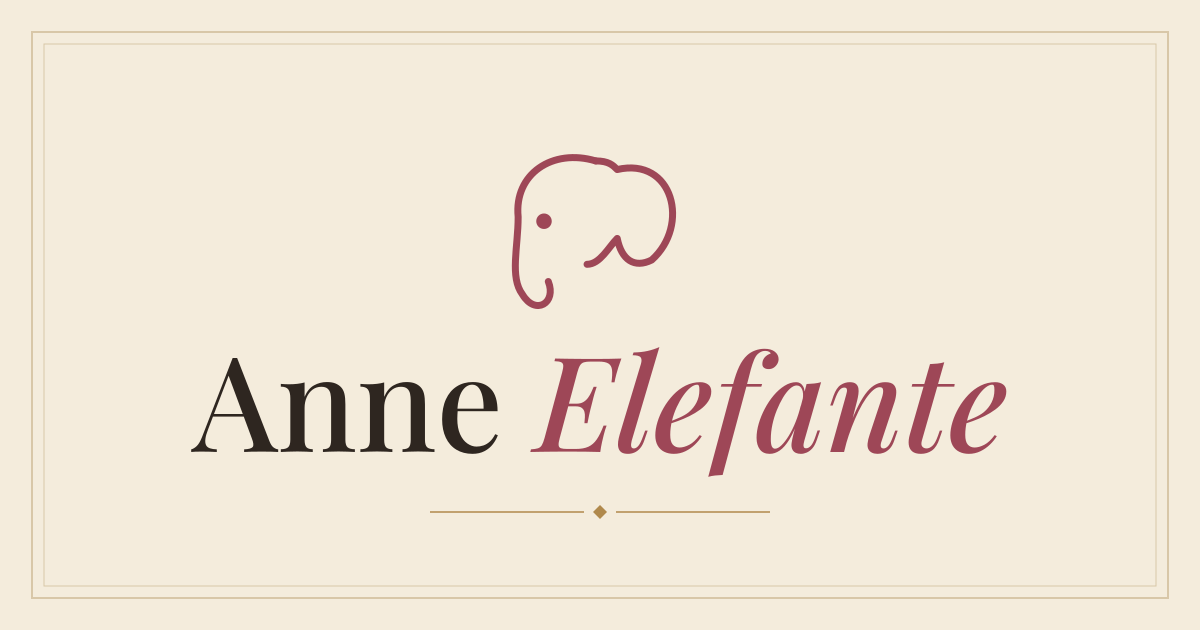
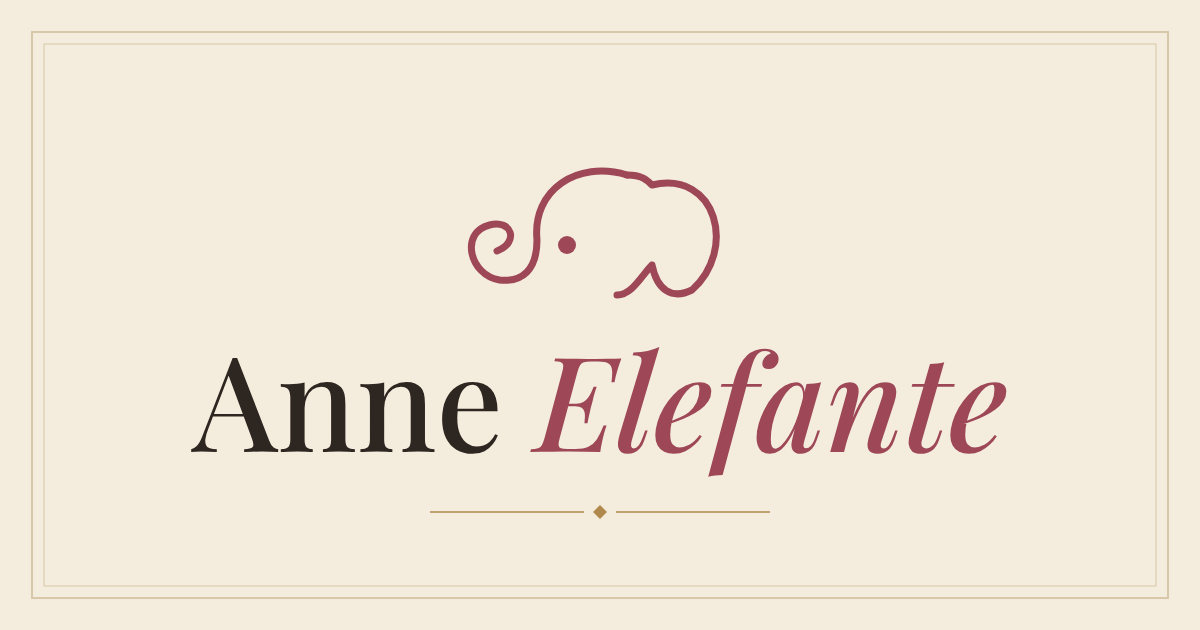
Swap the elephant mark for the trunk-up "Curl" redraw
Ellene polled people on six trunk-up redraws of the masthead elephant
and Curl won: same ear, eye, and fine-line weight as the tattoo-based
original, but the trunk now lifts into a spiral at eye level. Swapped
in everywhere the mark lives — PageTitle, the home nav brand, the
favicon, and the OG card. The new drawing is wider and shorter, so the
icon/OG transforms recenter on its optical center (30.6 25.4) instead
of the old (37 30.5); both PNGs are re-rendered from their SVGs.

Two deliberate look changes riding along: the favicon is reversed
(cream elephant knocked out of a rose chip) so it stands out in a tab
strip, and the home nav mark goes 22px -> 36px to match the size the
Help Center and Cold Storage masts render it.

Changed region(s): [[0.37, 0.2413, 0.6167, 0.5127]]

diff --git a/quartz/components/PageTitle.tsx b/quartz/components/PageTitle.tsx
@@ -9,9 +9,10 @@ const PageTitle: QuartzComponent = ({ fileData, cfg, displayClass }: QuartzCompo
   return (
     <h2 class={classNames(displayClass, "page-title")}>
       <a href={baseDir}>
-        {/* Anne Elefante mark — hand-drawn fine-line elephant head (trunk down,
-            soft ear, eye dot), based on Ellene's tattoo. currentColor-driven so
-            it recolors per section: sage on cream, gold on near-black in the
+        {/* Anne Elefante mark — hand-drawn fine-line elephant head (trunk curled
+            up in a spiral at eye level, soft ear, eye dot), based on Ellene's
+            tattoo; "Curl" redraw picked July 2026. currentColor-driven so it
+            recolors per section: sage on cream, gold on near-black in the
             Cold Storage vault. stroke-width bumped to 2.6 for inline/small size. */}
         <svg
           class="page-title-leaf"
@@ -28,7 +29,7 @@ const PageTitle: QuartzComponent = ({ fileData, cfg, displayClass }: QuartzCompo
             stroke-linecap="round"
             stroke-linejoin="round"
           >
-            <path d="M36 14 C 26 11 17 17 18 27 C 18 34 16 41 19 45 C 22 50 27 47 25 42" />
+            <path d="M36 14 C 26 11 17 17 18 27 C 18 33 15 35.5 10.5 35 C 4.5 34 2.5 25.5 8.5 24 C 13 22.8 14.5 27.5 10 29.2" />
             <path d="M36 14 C 39 14 40 15 41 16 C 54 13 58 29 49 37 C 45 39 42 37 41 32 C 39 34 37 38 34 38" />
           </g>
           <circle cx="24" cy="28" r="1.5" fill="currentColor" />

diff --git a/content/index.md b/content/index.md
@@ -4,7 +4,7 @@ description: I build the things people reach for when they're stuck.
 ---
 
 <nav class="hp-nav">
-<a class="hp-brand" href="/"><svg class="hp-brand-elephant" width="22" height="22" viewBox="0 0 64 64" fill="none" aria-hidden="true"><g fill="none" stroke="var(--gp-sage-deep)" stroke-width="2.6" stroke-linecap="round" stroke-linejoin="round"><path d="M36 14 C 26 11 17 17 18 27 C 18 34 16 41 19 45 C 22 50 27 47 25 42"/><path d="M36 14 C 39 14 40 15 41 16 C 54 13 58 29 49 37 C 45 39 42 37 41 32 C 39 34 37 38 34 38"/></g><circle cx="24" cy="28" r="1.5" fill="var(--gp-sage-deep)"/></svg><span class="hp-brand-word">Anne Elefante</span></a>
+<a class="hp-brand" href="/"><svg class="hp-brand-elephant" width="36" height="36" viewBox="0 0 64 64" fill="none" aria-hidden="true"><g fill="none" stroke="var(--gp-sage-deep)" stroke-width="2.6" stroke-linecap="round" stroke-linejoin="round"><path d="M36 14 C 26 11 17 17 18 27 C 18 33 15 35.5 10.5 35 C 4.5 34 2.5 25.5 8.5 24 C 13 22.8 14.5 27.5 10 29.2"/><path d="M36 14 C 39 14 40 15 41 16 C 54 13 58 29 49 37 C 45 39 42 37 41 32 C 39 34 37 38 34 38"/></g><circle cx="24" cy="28" r="1.5" fill="var(--gp-sage-deep)"/></svg><span class="hp-brand-word">Anne Elefante</span></a>
 <div class="hp-navlinks">
 <a href="#about">About</a>
 <a href="#whatido">What I do</a>
